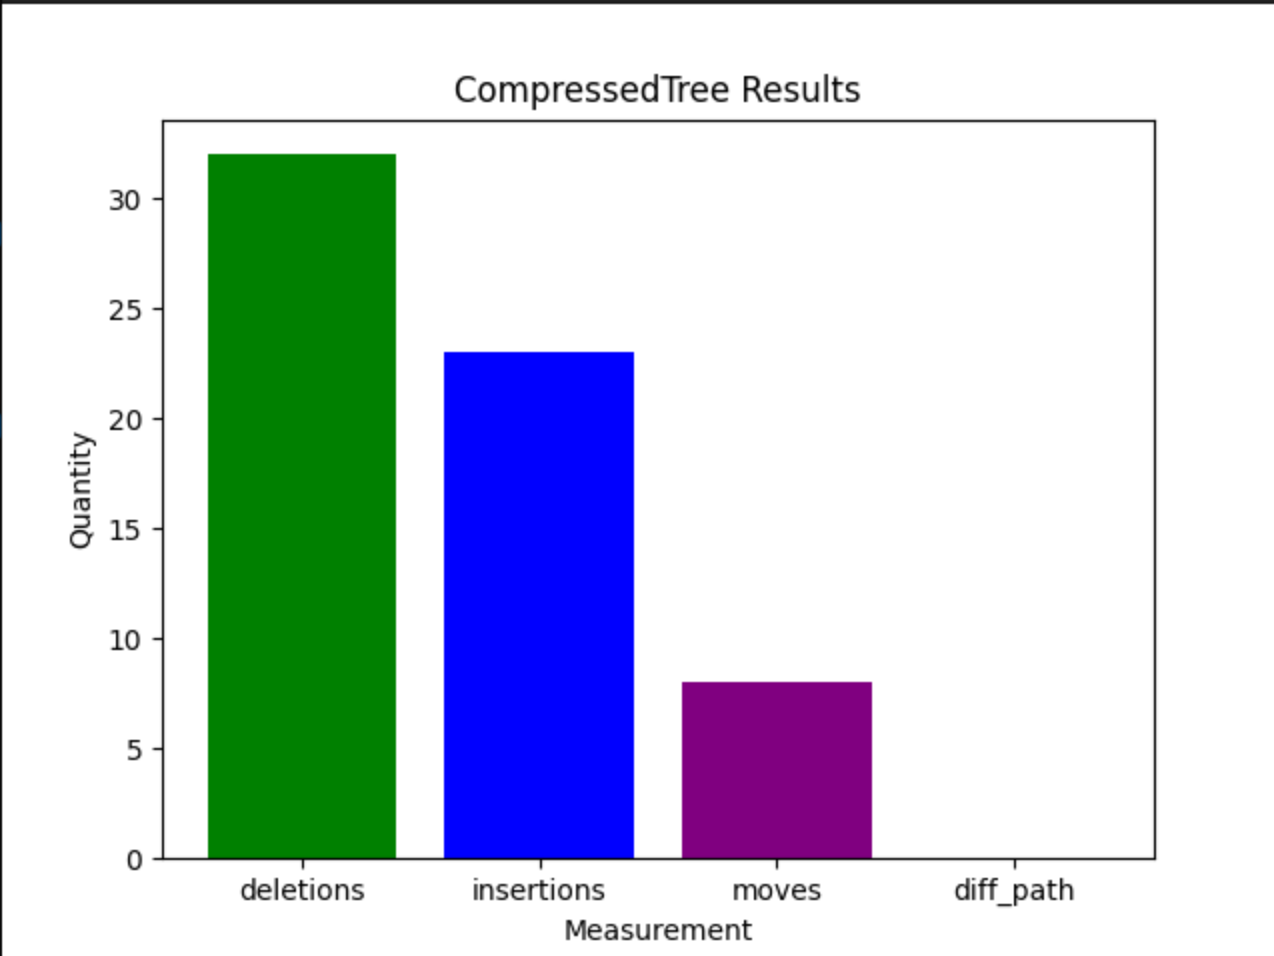
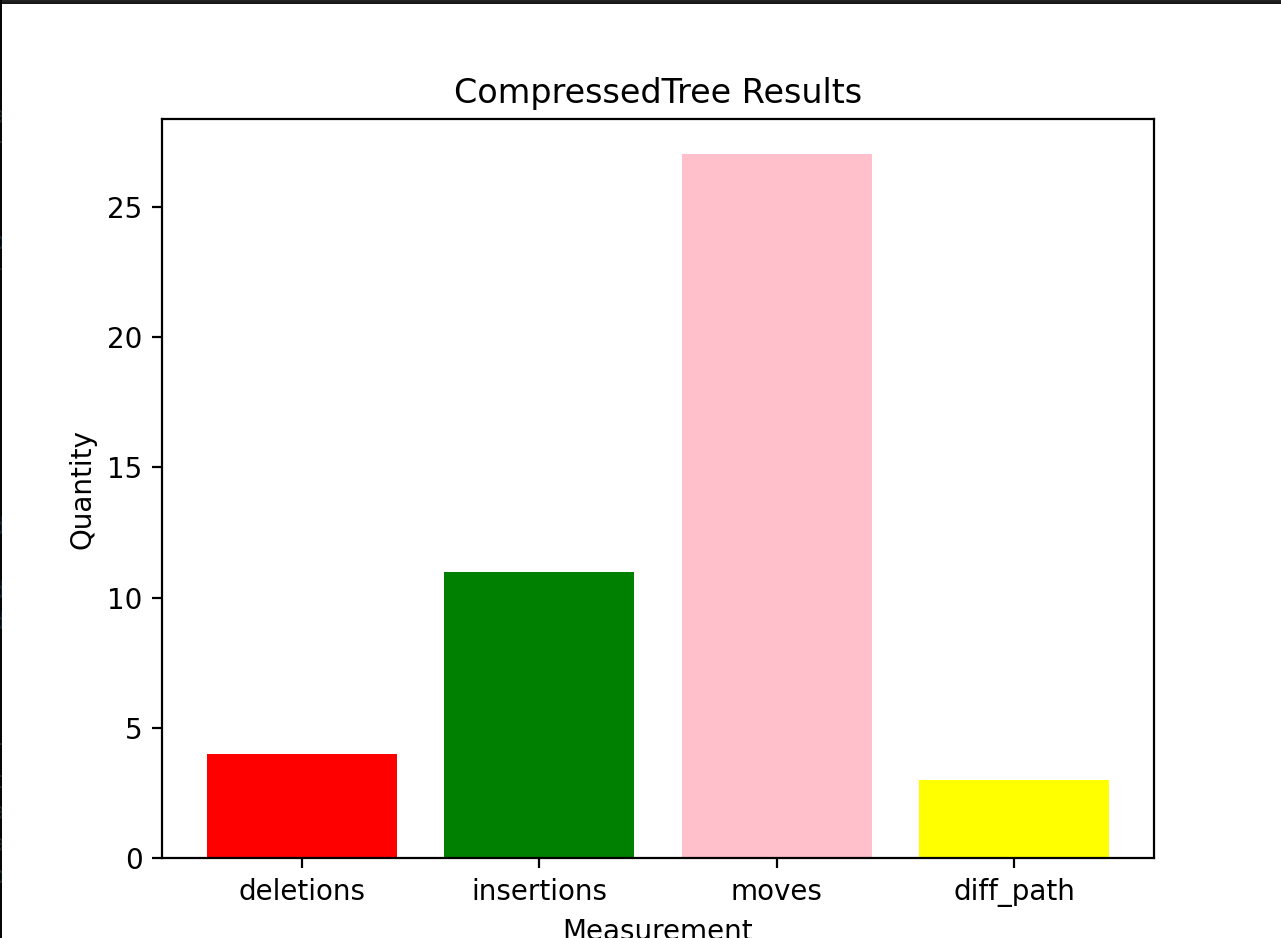
Added overall python case study analysis
Updated graph for python after fixing the format.

diff --git a/demos/run_analysis.py b/demos/run_analysis.py
@@ -29,7 +29,7 @@ def main():
     xaxis=data.keys()
     yaxis=data.values()
 
-    colors = ['green', 'blue', 'purple', 'brown']
+    colors = ['red', 'green', 'pink', 'yellow']
 
     plt.bar(xaxis,yaxis,color=colors)
     plt.title(algo+" Results")

diff --git a/demos/python_case_studies/readme.md b/demos/python_case_studies/readme.md
@@ -6,10 +6,10 @@
 
 ### CompressedTree Algorithm:
 
-* 32 Deletions: Every package in desired version is present in the result.
-* 23 insertions: Extra packages present in the result that are not there in the desired.
-* 8 Moves: Number of import statements in the result that are in a different spot from desired.
-* 0 Different Paths: Number of import statements in result that are from the wrong path.
+* 4 Deletions: Every package in desired version is present in the result.
+* 11 insertions: Extra packages present in the result that are not there in the desired.
+* 27 Moves: Number of import statements in the result that are in a different spot from desired.
+* 3 Different Paths: Number of import statements in result that are from the wrong path.
 
 ![My Image](images/CompressedTree.png)
 
